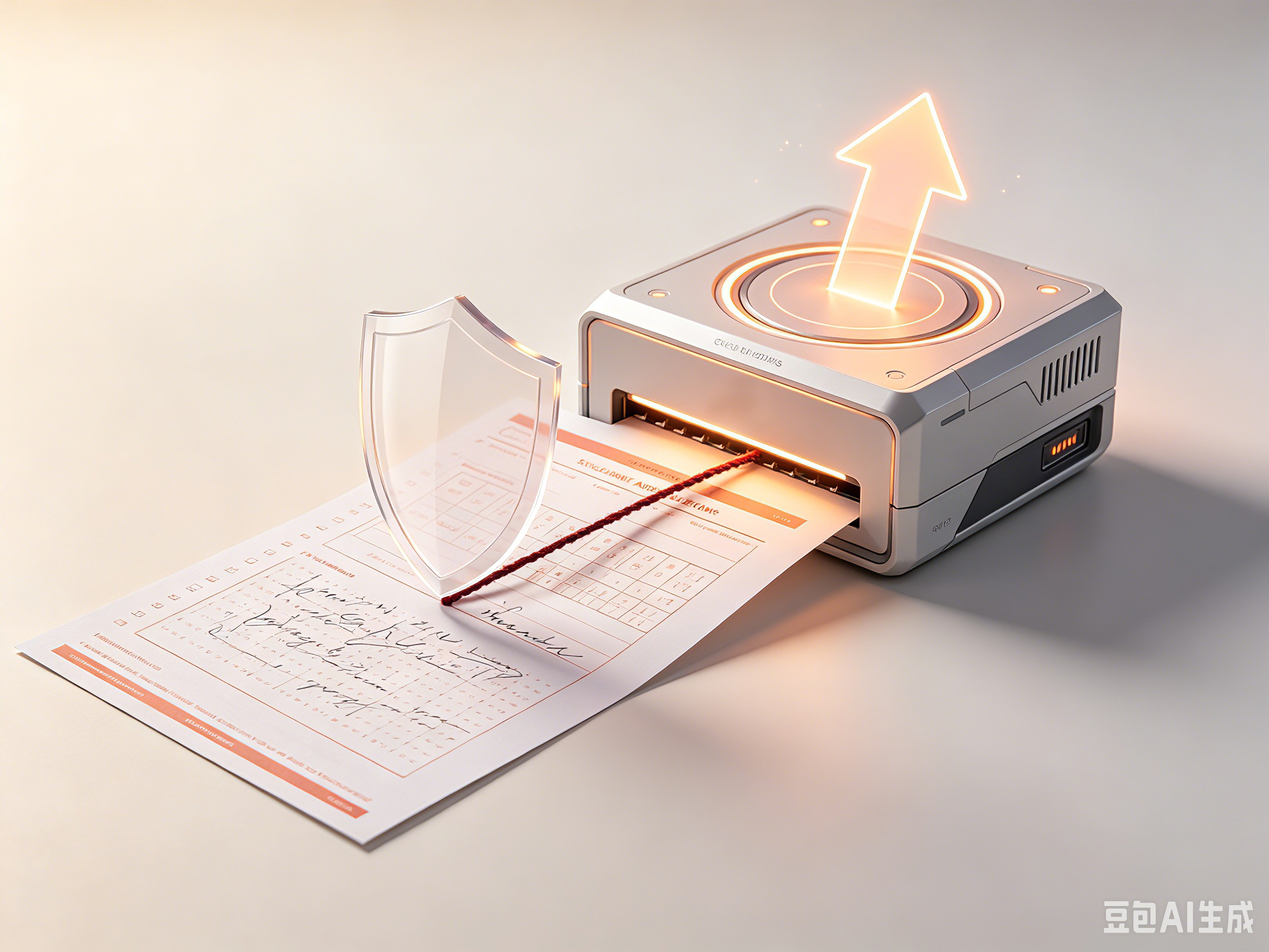
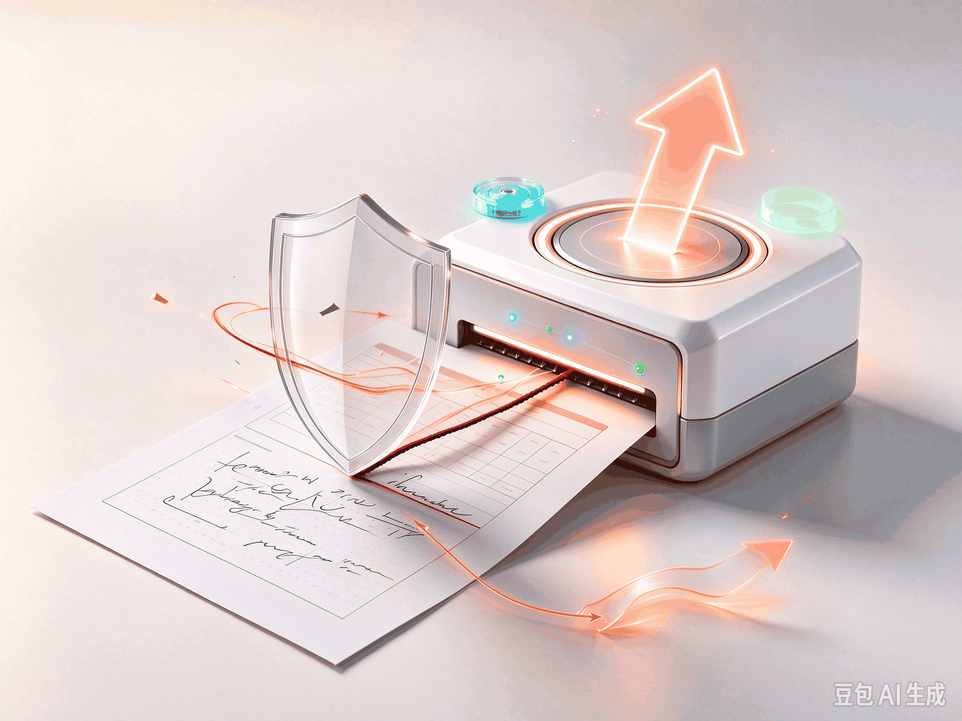
update figures and format

diff --git a/_includes/widgets/publication_card.html b/_includes/widgets/publication_card.html
@@ -1,13 +1,12 @@
 {% assign publications = include.publications %}
 <div class="my-3 p-0 bg-white shadow-sm rounded-xl">
-    <h6 class="border-bottom border-gray p-3 mb-0">
-        {% if include.title %}{{ include.title }}{% else %}<i class="fas fa-star"></i> Selected Recent Publications{% endif %} 
-        <a href="{{ 'publications' | relative_url }}">(view all <i class="fas fa-angle-double-right"></i>)</a>
-    </h6>
+    <h5 class="border-bottom border-gray p-3 mb-0">
+        {% if include.title %}{{ include.title }}{% else %}Selected Recent Publications{% endif %}
+    </h5>
     {% for item in publications limit:include.limit %}
         {% include widgets/publication_item.html item=item show_type_icon=true first=false last=false %}
     {% endfor %}
     <h6 class="d-block p-3 mt-0 text-right">
-        <a href="{{ 'publications' | relative_url }}">All publications <i class="fas fa-angle-double-right"></i></a>
+        <a href="{{ 'publications' | relative_url }}">All Publications <i class="fas fa-angle-double-right"></i></a>
     </h6>
 </div>

diff --git a/index.html b/index.html
@@ -19,7 +19,7 @@ navbar_title: Home
         {%
             include widgets/publication_card.html
             publications=pubs
-            title='<i class="fas fa-star"></i> Publications'
+            title='Publications'
         %}
     {% endif %}
 {% endif %}
